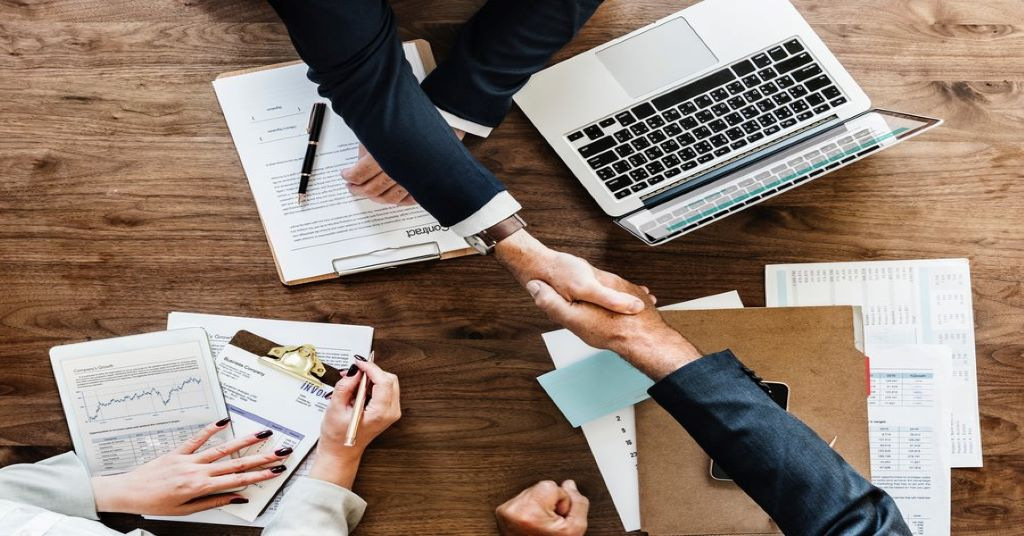
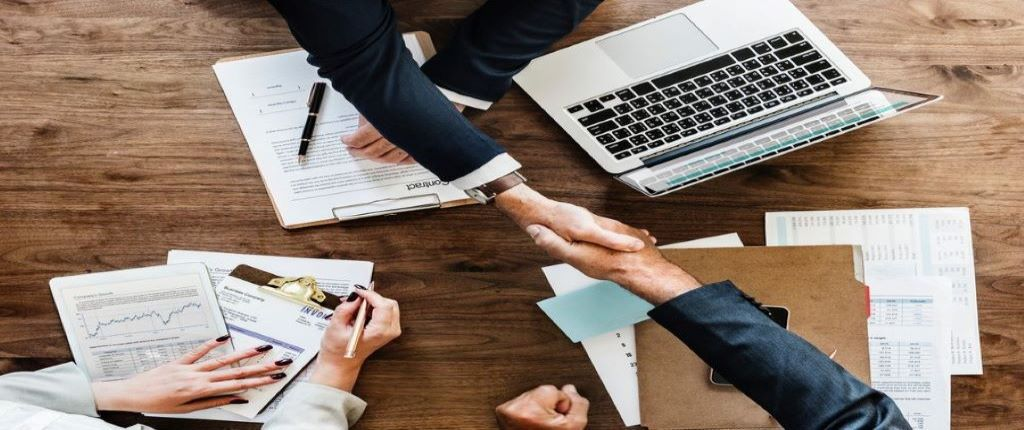
yaa

diff --git a/product.html b/product.html
@@ -66,7 +66,7 @@
    <section id="Home" class="bg-cover">
     <div class="row">
       <div class="overlay" width="300" height="300"></div>
-      <img src="https://img.antaranews.com/cache/800x533/2022/09/20/IMG_20220920_113215.jpg.webp"
+      <img src="assets/img/slide5.jpg"
         class="d-block mx-lg-auto img-fluid" alt="Bootstrap Themes" width="300" height="300" loading="lazy" />
     </div>
   </section>
